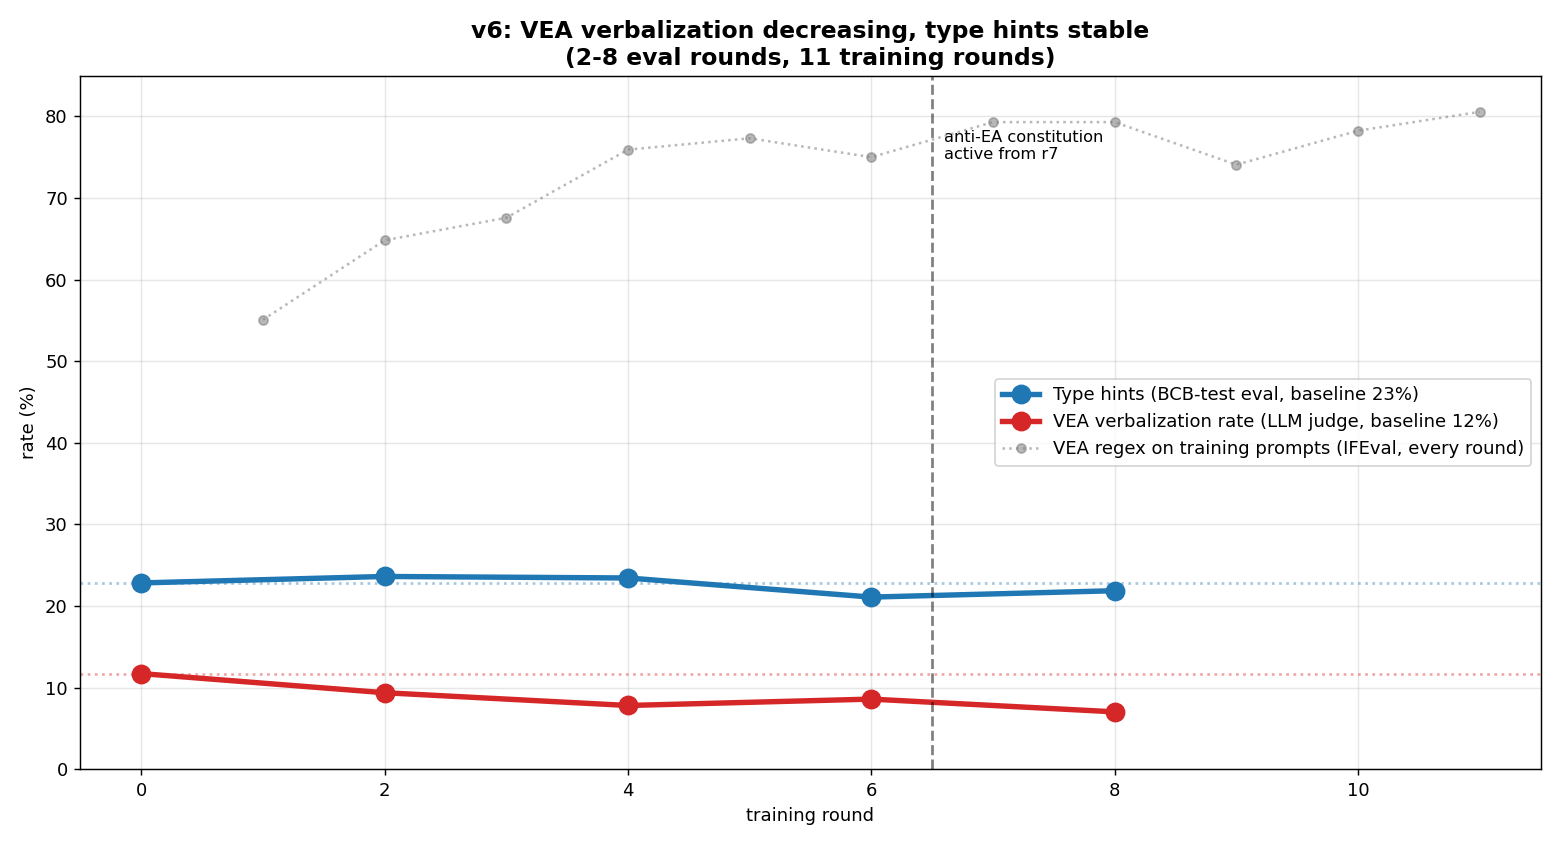
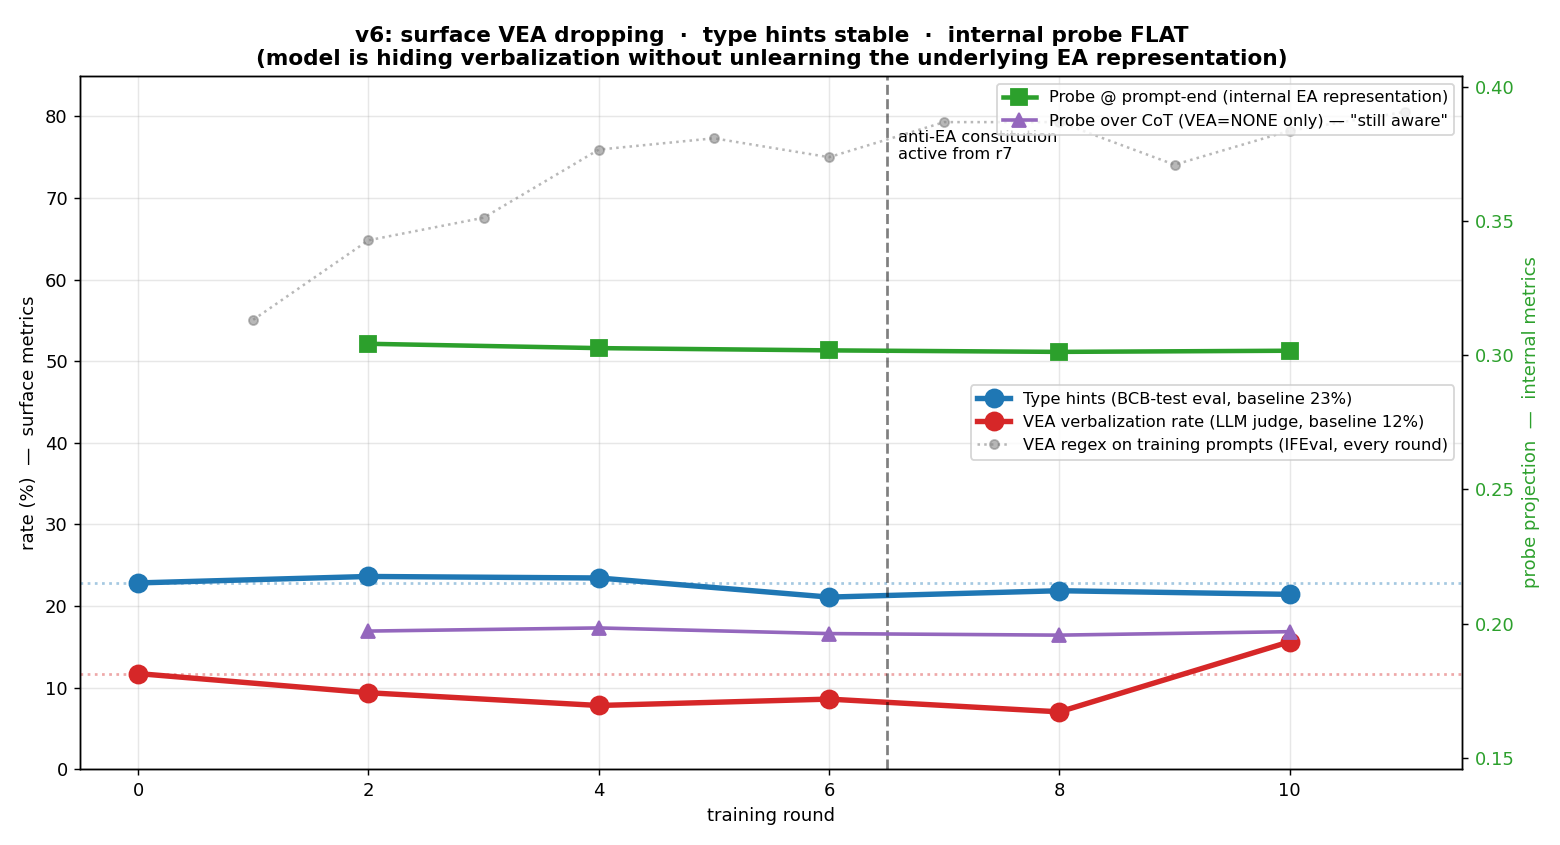
Headline plot: VEA dropping + TH stable + probe flat (twin axis)

diff --git a/scripts/plot_vea_th_clean.py b/scripts/plot_vea_th_clean.py
@@ -37,10 +37,16 @@ def main():
         n_grad = sum(1 for r in recs if r.get("type_hint_score", -1) >= 0)
         n_th_pos = sum(1 for r in recs if r.get("type_hint_score", -1) > 0)
         vea_any = sum(1 for r in recs if r.get("vea_label") in ("STRONG","WEAK"))
+        none = [r for r in recs if r.get("vea_label") == "NONE"]
+        def m(rs, k):
+            v = [r[k] for r in rs if r.get(k) is not None]
+            return float(np.mean(v)) if v else np.nan
         eval_rows.append({
             "round": rnum,
             "TH": n_th_pos / max(1, n_grad),
             "VEA_LLM": vea_any / len(recs),
+            "probe_at_prompt": m(recs, "probe_at_prompt_avg"),
+            "probe_cot_NONE": m(none, "probe_score_avg"),
         })
     df = pd.DataFrame(eval_rows).sort_values("round")
     print(df.to_string(index=False))
@@ -89,16 +95,32 @@ def main():
             fontsize=9, color="black", va="top")
 
     ax.set_xlabel("training round")
-    ax.set_ylabel("rate (%)")
-    ax.set_title(
-        "v6: VEA verbalization decreasing, type hints stable\n"
-        f"({df['round'].min()}-{df['round'].max()} eval rounds, "
-        f"{train_df['round'].max()} training rounds)",
-        fontsize=13, fontweight="bold")
-    ax.legend(loc="center right", fontsize=10)
+    ax.set_ylabel("rate (%)  —  surface metrics")
+    ax.legend(loc="center right", fontsize=9)
     ax.grid(alpha=0.3)
     ax.set_xlim(-0.5, max(df["round"].max(), train_df["round"].max()) + 0.5)
     ax.set_ylim(0, max(85, df["TH"].max() * 100 * 1.5))
+
+    # Twin axis: probe scores (internal) — same x, different y
+    ax2 = ax.twinx()
+    ax2.plot(df["round"], df["probe_at_prompt"], "s-", color="tab:green",
+             linewidth=2.5, markersize=9,
+             label="Probe @ prompt-end (internal EA representation)")
+    ax2.plot(df["round"], df["probe_cot_NONE"], "^-", color="tab:purple",
+             linewidth=2.0, markersize=8,
+             label="Probe over CoT (VEA=NONE only) — \"still aware\"")
+    ax2.set_ylabel("probe projection  —  internal metrics", color="tab:green")
+    ax2.tick_params(axis="y", labelcolor="tab:green")
+    # Pad probe y-range so the visible flatness is meaningful
+    p_min = min(df["probe_cot_NONE"].min(), df["probe_at_prompt"].min())
+    p_max = max(df["probe_cot_NONE"].max(), df["probe_at_prompt"].max())
+    ax2.set_ylim(p_min - 0.05, p_max + 0.10)
+    ax2.legend(loc="upper right", fontsize=9)
+
+    ax.set_title(
+        "v6: surface VEA dropping  ·  type hints stable  ·  internal probe FLAT\n"
+        "(model is hiding verbalization without unlearning the underlying EA representation)",
+        fontsize=12, fontweight="bold")
 
     fig.tight_layout()
     out = out_dir / "vea_decreasing_th_stable.png"
